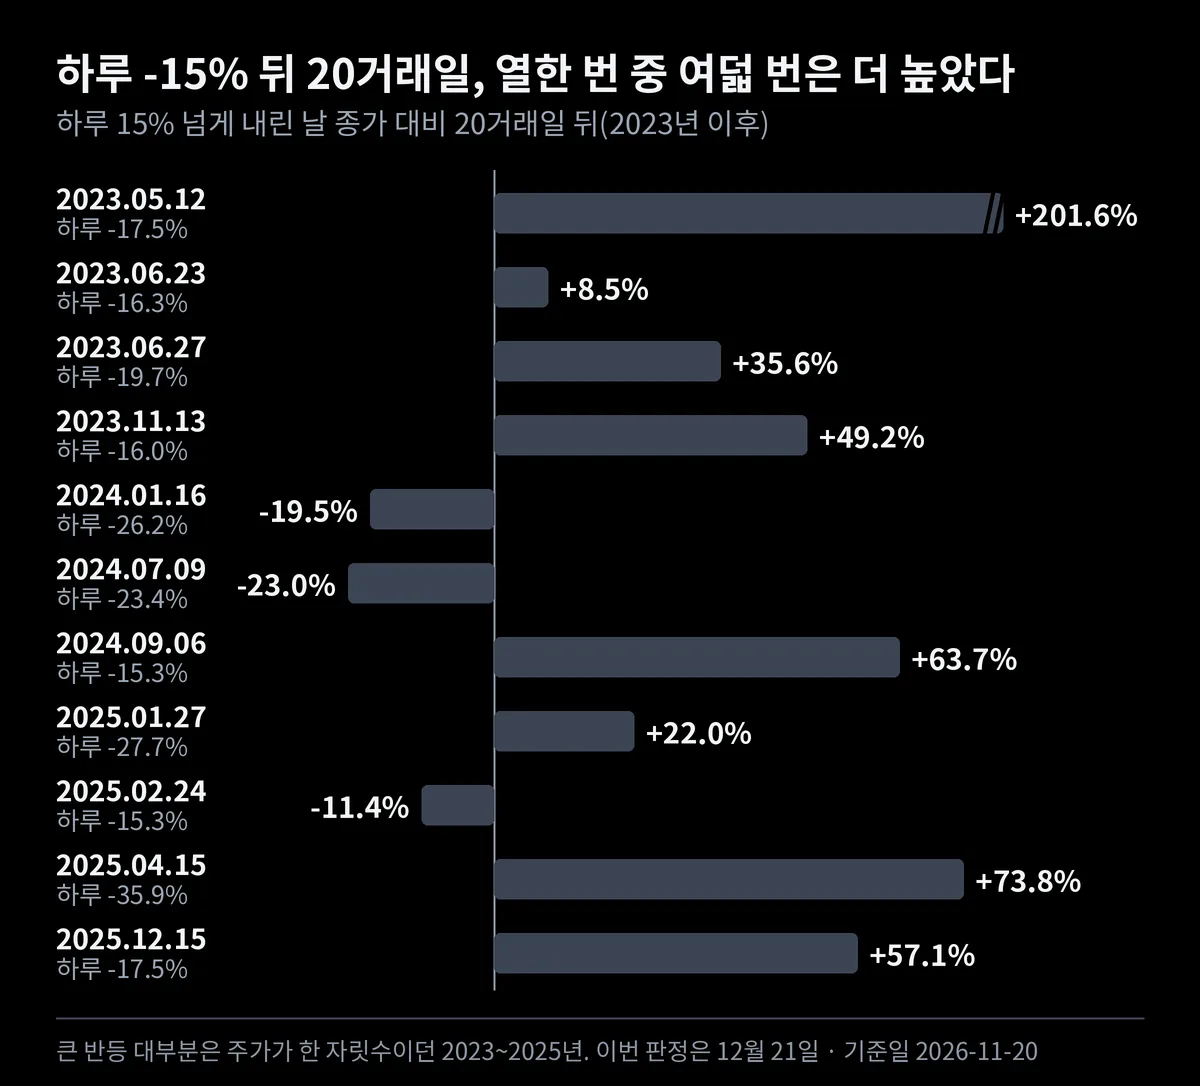
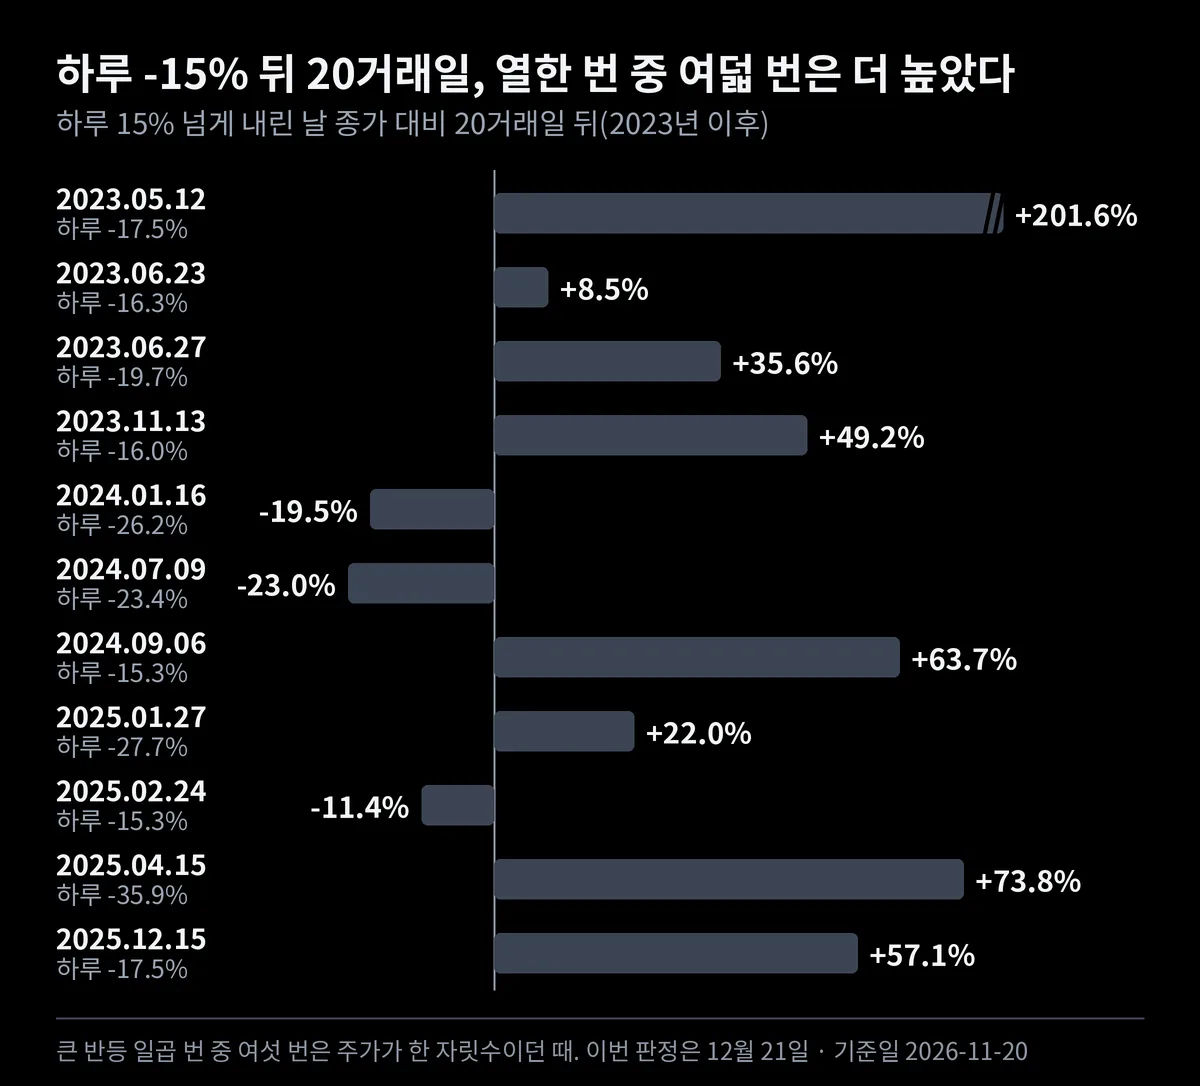
리포트: apld-2026-11 youtube_id 연결(1TKhp0NOkYU)·마무리 문장 다듬기
Claude-Session: https://claude.ai/code/session_01DaUBsG9X6bLavyZrFguf5X

Changed region(s): [[0.0925, 0.942, 0.8633, 1.0]]

diff --git a/content/reports/apld-2026-11.md b/content/reports/apld-2026-11.md
@@ -22,7 +22,7 @@ blog_faq:
     a: "어플라이드 디지털이 2026년 5월 떼어 낸 클라우드 사업을 가진 나스닥 상장사입니다. 8월 31일에는 약 96%를 가졌고, 11월 18일 사모 뒤에는 전환사채가 주식으로 바뀐다고 치면 85.6%(151,653,227주)를 갖습니다. 11월 20일 종가로 그 지분 가치는 약 12억 달러로, 어플라이드 디지털 시가총액의 약 3분의 1입니다."
   - q: "75억 달러 계약은 어플라이드 디지털 매출이 되나요?"
     a: "계약 당사자는 크로노스케일과 STN이 반씩 가진 오데사 파트너십입니다. 75억 달러는 첫 단계 6년 동안의 최대 계약 총액이고, 첫 65MW는 2027년 상반기 배치 예정입니다. 크로노스케일은 어플라이드 디지털의 연결 자회사라 실적에 함께 잡히지만, 회사는 크로노스케일을 뺀 비GAAP 숫자를 따로 냅니다."
-youtube_id: ""
+youtube_id: "1TKhp0NOkYU"
 draft: false
 style: story
 sources:
@@ -65,7 +65,7 @@ sources:
 
 김박사 월드가 어플라이드 디지털을 다루는 것은 이번이 처음입니다. 그래서 채점할 지난 예측은 없습니다. 이번 글은 한 가지를 나눠서 봅니다. 회사에 일이 생긴 날과, 시장 전체가 무너진 날입니다. 두 날을 섞으면 이번 하락의 이유를 잘못 읽게 됩니다.
 
-어플라이드 디지털은 AI용 데이터센터를 지어 빌려주는 미국 회사입니다. 본사는 텍사스 댈러스에 있고, 큰 단지는 노스다코타에 있습니다. 돈을 버는 방식은 건물과 전력을 갖춘 데이터센터를 큰 기술 회사에 10~15년씩 임대하는 것입니다. 8월 31일 기준 임대 계약은 약 1.41기가와트(GW)였습니다. 기가와트는 데이터센터가 쓰는 전력 규모로, 계약의 크기를 재는 단위입니다. 회사는 이 계약의 기본 기간 매출을 약 360억 달러로 적었습니다.
+어플라이드 디지털은 AI용 데이터센터를 지어 빌려주는 미국 회사입니다. 본사는 텍사스 댈러스에 있고, 큰 단지는 노스다코타에 있습니다. 돈을 버는 방식은 건물과 전력을 갖춘 데이터센터를 코어위브나 투자 등급 대형 클라우드 회사 같은 고객에게 길게 임대하는 것입니다. 6월에 맺은 델타 포지 2 계약은 약 15년입니다. 8월 31일 기준 임대 계약은 약 1.41기가와트(GW)였습니다. 기가와트는 데이터센터가 쓰는 전력 규모로, 계약의 크기를 재는 단위입니다. 회사는 이 계약의 기본 기간 매출을 약 360억 달러로 적었습니다.
 
 첫 단지 폴라리스 포지 1의 임차인은 GPU(그래픽 처리 장치) 클라우드 회사 코어위브입니다. 10월 1일 이 단지에서 250메가와트(MW)가 가동됐습니다. 8월 31일까지 석 달 매출은 1년 전보다 322% 늘었습니다. 하지만 같은 석 달 순손실도 2억 2,100만 달러였습니다.
 
@@ -77,7 +77,7 @@ sources:
 
 오데사 계약부터 보면, 데이터센터 개발사 STN(STN One 계열)과 오데사 단지를 반씩 갖는 파트너십을 만듭니다. 고객은 회사가 '선도 AI 연구소'라고만 밝힌 곳입니다. 첫 단계는 6년 동안 최대 75억 달러 계약이고, 첫 65MW는 2027년 상반기에 배치합니다.
 
-돈 모으는 방법도 함께 나왔습니다. 보통주를 1주에 8.00달러씩 팔아 2억 5,000만 달러를 마련합니다. 이 가운데 9,700만 달러는 어플라이드 디지털이 냈습니다. 바로 주식을 받지 않고, 이자 없는 전환사채로 받았습니다. 전환사채는 나중에 주식으로 바뀌는 부채입니다. 주주 승인이 효력을 내면 1,212.5만 주로 자동으로 바뀌고, 그러지 않으면 12월 31일이 만기입니다.
+돈 모으는 방법도 함께 나왔습니다. 보통주를 1주에 8.00달러씩 팔아 2억 5,000만 달러를 마련합니다. 이 가운데 9,700만 달러는 어플라이드 디지털이 냈습니다. 바로 주식을 받지 않고, 이자 없는 전환사채로 받았습니다. 전환사채는 나중에 주식으로 바뀌는 부채입니다. 크로노스케일 대주주들이 11월 18일 서면으로 낸 동의는, 회사가 정보 안내서(14C)를 주주에게 보낸 날부터 20일 뒤 효력을 냅니다. 그때 1,212.5만 주로 자동으로 바뀌고, 그 전에 바뀌지 않으면 12월 31일이 만기입니다.
 
 여기에 최대 5억 달러어치 전환우선주를 4년에 걸쳐 나눠 팔 수 있는 약정도 맺었습니다. 처음 1,000만 달러는 발표 날 바로 썼습니다.
 
@@ -89,7 +89,7 @@ sources:
 
 그리고 11월 20일입니다. 어플라이드 디지털은 17.8% 내려 11.49달러로 마감했습니다. 거래량은 직전 20거래일 평균의 1.66배였습니다. 이날 어플라이드 디지털 이름의 공시는 장이 끝난 뒤에야 나왔습니다.
 
-장 마감 뒤 나온 서류는 Form 4와 13D/A 두 건입니다. 둘 다 2거래일 전 산 전환사채를 보고한 서류입니다. 그날 주가를 움직일 새 소식은 아니었습니다.
+장 마감 뒤 나온 서류는 Form 4(내부자·대주주 거래 보고)와 13D/A(5% 넘게 가진 주주의 지분 보고 수정본) 두 건입니다. 둘 다 2거래일 전 산 전환사채를 보고한 서류입니다. 그날 주가를 움직일 새 소식은 아니었습니다.
 
 ![11월 20일 하루, 같은 AI 데이터센터 업종이 모두 15% 안팎 내렸습니다(11월 20일 기준)](/static/charts/apld-2026-11-2.webp)
 
@@ -99,13 +99,15 @@ sources:
 
 ![11월 11일을 100으로 놓으면 어플라이드 디지털은 업종 가운데쯤에 있습니다(11월 20일 기준)](/static/charts/apld-2026-11-3.webp)
 
-이번 장면에 이름을 붙이면 '좋은 소식 뒤에 온 시장 급락'입니다. 회사 사건은 18일에 있었고, 큰 하락은 2거래일 뒤 시장 전체가 무너진 날에 왔습니다. 김박사 월드가 꾸준히 다루는 핵심 종목 아이렌도 같은 날 회사 소식 없이 18.0% 내렸습니다([아이렌 11월 20일 리포트](/r/iren-2026-11-5/)). 예측을 적어 두는 김박사 월드 장부에는, 아이렌이 업종과 같은 방향으로 움직인 기록이 세 번 중 세 번입니다. 김박사 월드는 이렇게 종목을 가로질러 반복되는 모양을 모아 셉니다.
+회사 사건은 18일에 있었고, 큰 하락은 2거래일 뒤 시장 전체가 무너진 날에 왔습니다. 좋은 소식과 시장 급락이 한 주에 겹친 것입니다. 김박사 월드가 꾸준히 다루는 핵심 종목 아이렌도 같은 날 회사 소식 없이 18.0% 내렸습니다([아이렌 11월 20일 리포트](/r/iren-2026-11-5/)). 예측을 적어 두는 김박사 월드 장부에는, 아이렌이 업종과 같은 방향으로 움직인 기록이 세 번 중 세 번입니다. 세 번뿐이라 아직 패턴이라기보다 관찰입니다. 김박사 월드는 이렇게 종목을 가로질러 반복되는 모양을 모아 셉니다.
 
 그렇다고 회사 사건이 주가와 무관하다는 뜻은 아닙니다. 지금 주가에 돈을 대 보면 크로노스케일 지분이 차지하는 비중이 큽니다. 11월 20일 크로노스케일 종가는 7.95달러로, 2거래일 전 사모 값 8.00달러 아래입니다. 어플라이드 디지털이 가진 151,653,227주를 이 값으로 곱하면 약 12억 1,000만 달러입니다.
 
 ![어플라이드 디지털 몸값의 약 3분의 1이 크로노스케일 지분이고, 장기 부채는 몸값의 두 배 가까이입니다(11월 20일 기준)](/static/charts/apld-2026-11-4.webp)
 
-어플라이드 디지털의 시가총액은 10월 6일 주식 수로 약 34억 7,000만 달러입니다. 그 약 3분의 1이 크로노스케일 지분입니다. 크로노스케일 주가가 움직이면 어플라이드 디지털 몸값도 그만큼 흔들린다는 뜻입니다. 지분율은 사모로 약 96%에서 85.6%로 줄었습니다. 새 주식이 늘어난 만큼 기존 주주 지분율이 줄어든 것입니다.
+어플라이드 디지털의 시가총액은 10월 6일 주식 수로 약 34억 7,000만 달러입니다. 그 약 3분의 1이 크로노스케일 지분입니다.
+
+크로노스케일이 10% 움직이면, 다른 조건이 같을 때 어플라이드 디지털 몸값에는 그 3분의 1쯤인 약 3%만큼의 영향이 간다는 뜻입니다. 지분율은 사모로 약 96%에서 85.6%로 줄었습니다. 새 주식이 늘어난 만큼 기존 주주 지분율이 줄어든 것입니다.
 
 부채도 함께 봐야 합니다. 8월 31일 장기 부채 62억 6,000만 달러는 지금 시가총액의 약 1.8배입니다. 현금 29억 5,000만 달러는 대부분 데이터센터 건설에 쓰일 돈입니다. 회사는 임대 계약을 담보로 돈을 빌려 건물을 짓습니다. 금리가 오르거나 시장이 AI 투자에 겁을 내면, 이런 회사가 먼저 흔들리는 구조입니다.
 
@@ -123,15 +125,15 @@ sources:
 
 14번 중 7번이 13.98달러 위로 갔습니다. 11.49~13.98달러 칸은 1번뿐이었고, 나머지 6번은 11.49달러 아래였습니다. 아이렌의 3번은 모두 11.49달러 아래 칸이었습니다.
 
-여기에 지금 사정을 15%포인트 안에서 얹었습니다. 13.98달러 위 칸은 50%에서 약 35%로 낮췄습니다. 반등 기록 대부분이 회사가 작던 때였고, 11월 핵심 종목에서 기준선을 깨고 내려간다는 쪽 예측은 네 번 모두 맞았기 때문입니다. 11.49~13.98달러 칸은 표본이 작아 한 번만 잡힌 칸이라 약 20%로 올렸습니다. 아래 두 칸은 약 23%와 약 22%로 조금씩 올렸습니다.
+여기에 지금 사정을 15%포인트 안에서 얹었습니다. 13.98달러 위 칸은 50%에서 약 35%로 낮췄습니다. 반등 기록 대부분이 회사가 작던 때였고, 11월 핵심 종목(실스크·솔리드파워·양자 보안 회사 BTQ(BTQ 테크놀로지스))에서 기준선을 깨고 내려간다는 쪽 예측은 네 번 모두 맞았기 때문입니다. 다만 네 번뿐이라 방향을 정하는 참고로만 썼습니다. 11.49~13.98달러 칸은 표본이 작아 한 번만 잡힌 칸이라 약 20%로 올렸습니다. 아래 두 칸은 약 23%와 약 22%로 조금씩 올렸습니다.
 
 이 숫자는 주가가 오를 확률이 아니라, 과거 빈도에서 출발해 분석자가 주관적으로 매긴 추정입니다. 11.49달러 아래 두 칸을 합치면 약 45%입니다. 크로노스케일 전환사채가 주식으로 바뀌는지, 재판매 등록 서류가 나오는지는 갈래에 섞지 않고 따로 확인합니다. 회사 일이 생기는 것과 주가가 오르는 것은 다른 문제이기 때문입니다.
 
 이 추정이 틀릴 이유도 적어 둡니다. 13.98달러까지 가려면 21.7%가 올라야 합니다. 2025년 1월처럼 22.0% 올라 경계에 걸친 기록도 있어, 조금 차이로 비껴갈 수 있습니다. 반대로 11.49달러는 2025년 7월 뒤 가장 낮은 종가라, 내려가는 흐름이 이어지면 아래 두 칸으로 갑니다. 그래서 가장 무거운 칸도 40% 아래에 묶었습니다.
 
-위험도 짚겠습니다. 가장 큰 한계는 20일 급락의 이유를 밝힌 자료가 없다는 점입니다. 업종 전체가 함께 내린 것은 숫자로 확인되지만, 왜 그날이었는지는 공개 자료로 알 수 없습니다. 크로노스케일은 12월 10일까지 사모 주식의 재판매 등록 서류를 내야 합니다. 등록되면 8.00달러에 산 투자자들이 시장에 팔 수 있게 됩니다. 또 오데사 파트너십은 프로젝트 대출이 잡히기 전까지 크로노스케일이 건설비를 한도 없이 대야 하는 구조입니다.
+위험도 짚겠습니다. 가장 큰 한계는 20일 급락의 이유를 밝힌 자료가 없다는 점입니다. 업종 전체가 함께 내린 것은 숫자로 확인되지만, 왜 그날이었는지는 공개 자료로 알 수 없습니다. 크로노스케일은 12월 10일까지 사모 주식의 재판매 등록 서류를 내야 합니다. 등록되면 8.00달러에 산 투자자들이 시장에 팔 수 있게 됩니다. 또 8-K에 따르면 오데사 파트너십은 프로젝트 대출이 잡히기 전까지 크로노스케일이 필요한 건설비를 정해진 상한 없이 대야 합니다. 그 돈은 나중에 STN이 낼 현금이나 분배금에서 이자와 함께 먼저 돌려받는 구조입니다.
 
-자회사의 큰 계약은 주가를 받쳐 주지 못했습니다. 다만 계약 날의 반응은 1.6% 상승이었고, 큰 하락은 시장 전체가 무너진 날에 왔습니다. 그래서 다음 열쇠는 계약 그 자체보다, 12월 21일 종가가 업종과 함께 다시 오르느냐입니다. 그 전에 크로노스케일 재판매 등록이나 새 조달 공시가 나오면 갱신을 앞당깁니다.
+좋은 소식과 시장 급락이 겹친 주였습니다. 자회사의 큰 계약은 발표 날 주가를 1.6% 올렸지만, 2거래일 뒤 시장 전체가 무너진 날의 하락을 막지는 못했습니다. 그래서 다음 열쇠는 계약 그 자체보다, 12월 21일 종가가 업종과 함께 다시 오르느냐입니다. 그 전에 크로노스케일 재판매 등록이나 새 조달 공시가 나오면 갱신을 앞당깁니다.
 
 ## 숫자로 다시 보기
 
